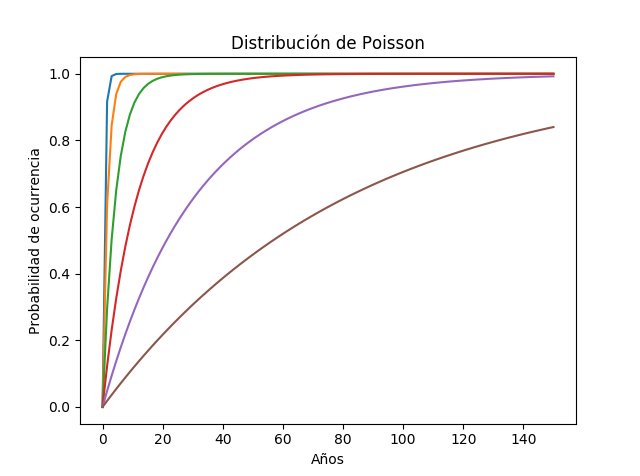
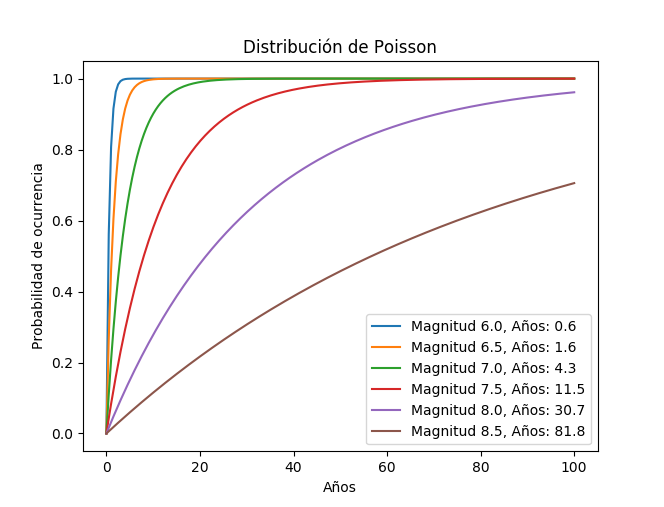
Inicio weibull
Se agrega gráfico de poisson y se comienza weibull

diff --git a/SeismicStudy.py b/SeismicStudy.py
@@ -1,10 +1,9 @@
 # -*- coding: utf-8 -*-
 """
-Created on Wed Nov 08 16:32:14 2017
-
-@author: David
+@author: Davidulicio
 """
 import sys  # Me funciona para los tildes
+reload(sys)  # si falla la codificación reaplicar reload
 sys.setdefaultencoding('utf-8')
 import matplotlib.pyplot as plt
 import math
@@ -141,6 +140,8 @@ def pearson_def(x, y):
         ydiff2 += ydiff * ydiff
 
     return diffprod / math.sqrt(xdiff2 * ydiff2)
+
+"Fidelidad de la Gutenberg-Richter"
 R = (pearson_def(d, arreglo)) ** 2  # R^2
 print 'R^2 = ' + repr(R)
 cov = np.linalg.inv(np.matmul(Gt, G))
@@ -150,14 +151,17 @@ oa = math.sqrt(cov[1][1])
 print 'oa = ' + repr(oa)
 "Distribucion de Poisson"
 plt.figure(num = 2)  # Figura Distribucion de Poisson
-t = np.linspace(0, 150, 100)
+t = np.linspace(0, 100, 200)
 mag = np.linspace(6, 8.5, 6)  # Mags de 6 a 8.5 de 0.5 en 0.5
 T = [];P1 = []
 for value in mag:
     TD = 1 / (10 ** (a + b * value))  # b ya es negativo por eso +
     P = 1 - np.exp(-t / TD)
     print 'Años para magnitud ' + repr(value) + ': ' + repr(round(TD,1))
-    plt.plot(t, P)
+    plt.plot(t, P, label='Magnitud ' + repr(value) + ', Años: ' + repr(round(TD,1)))
 plt.title('Distribución de Poisson')
 plt.xlabel('Años')
 plt.ylabel('Probabilidad de ocurrencia')
+plt.legend()
+plt.show()
+"Distribuciones de Weibull"
